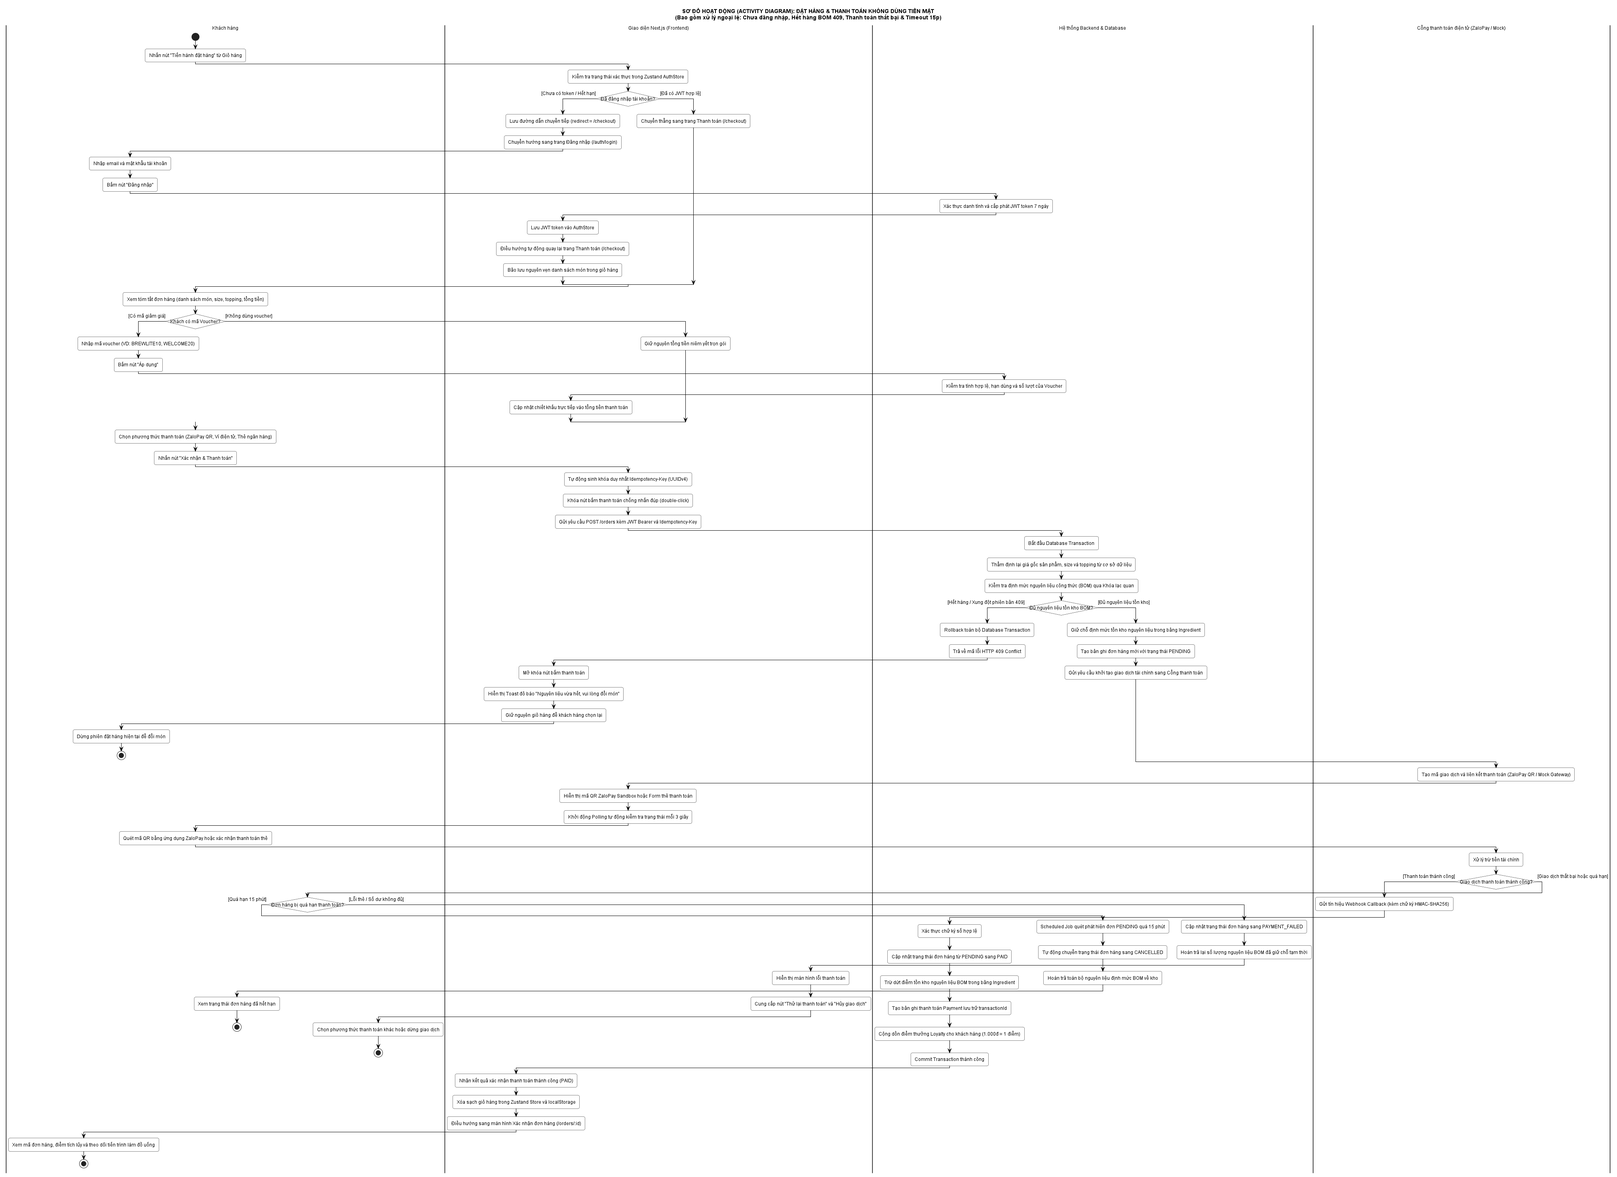
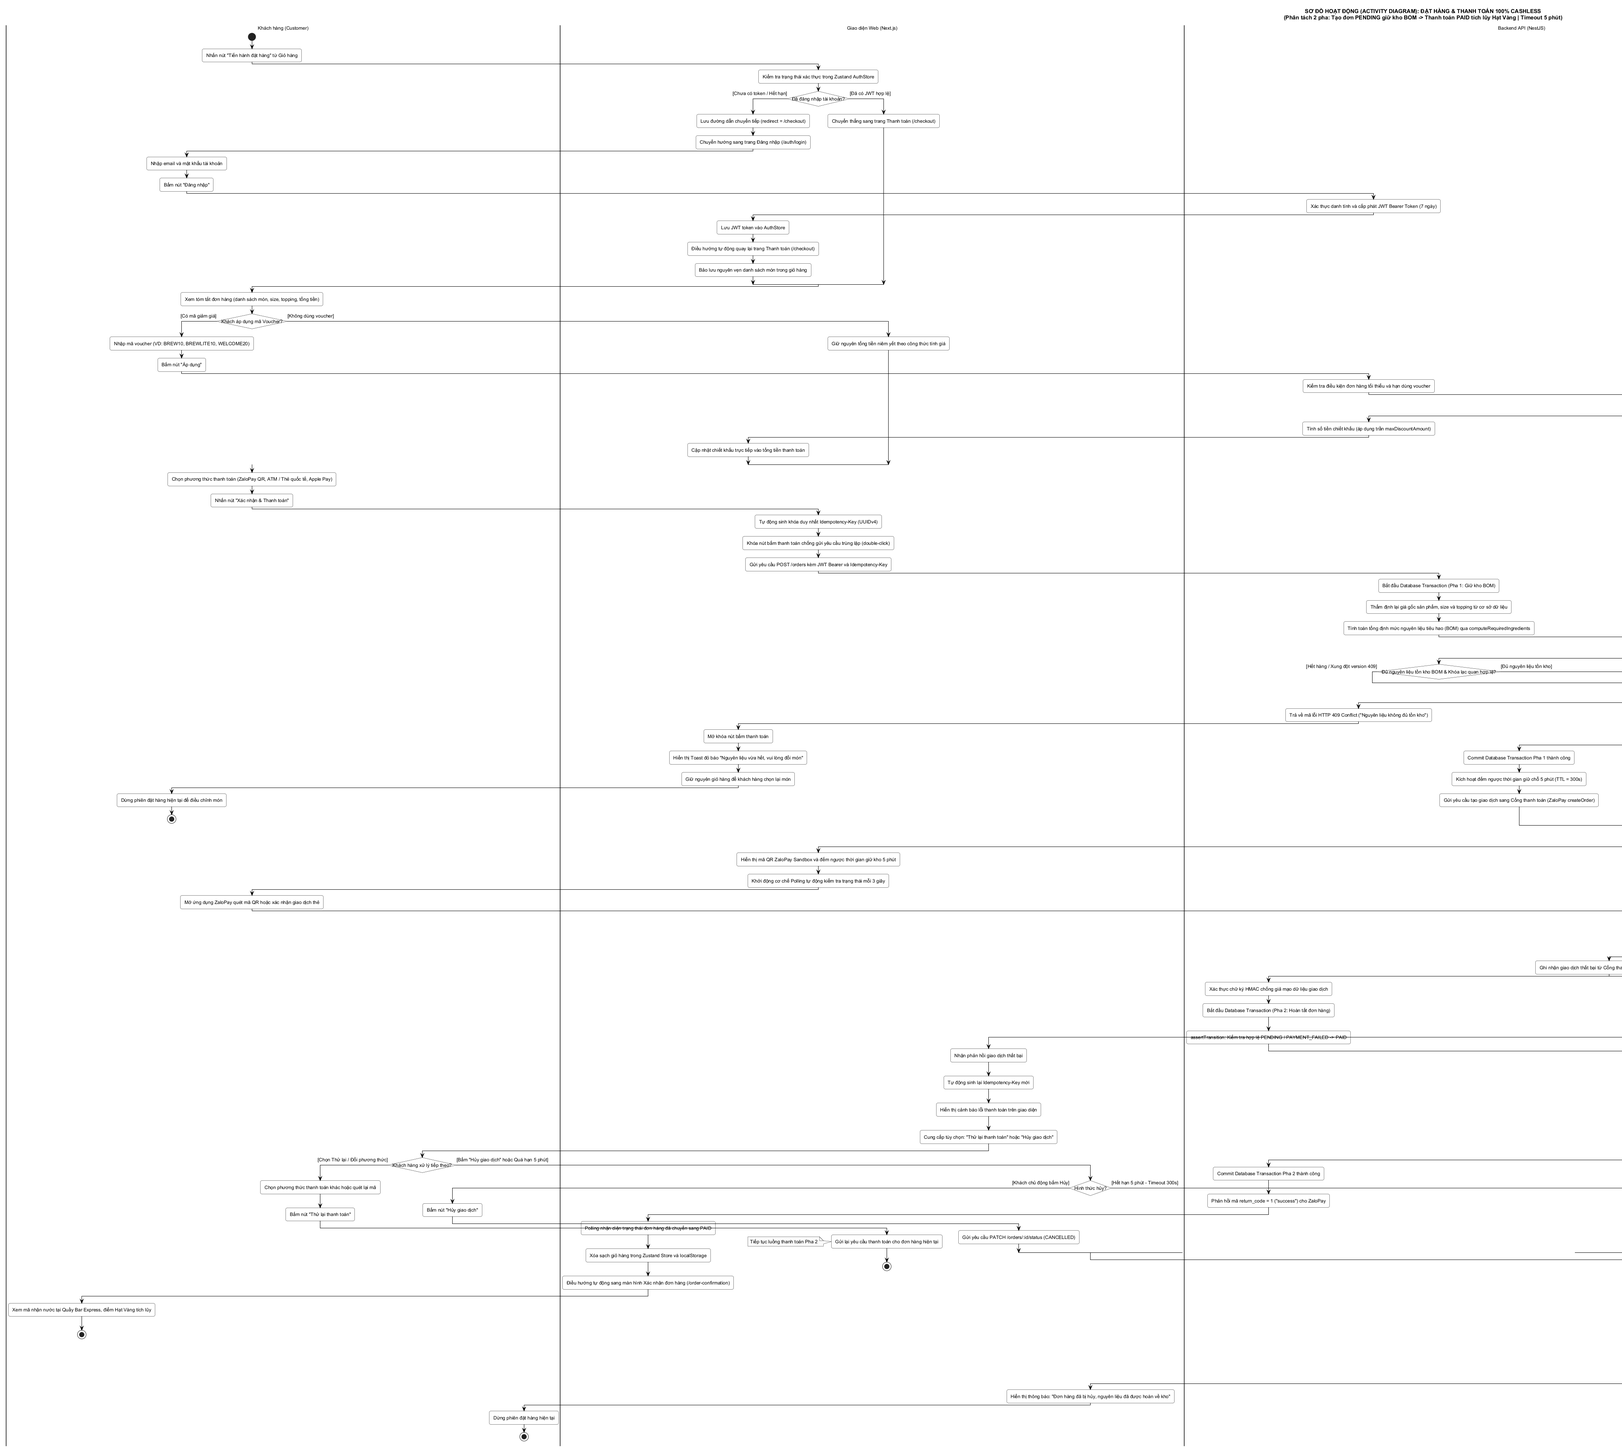
docs(task-2.1): bổ sung sơ đồ hoạt động checkout đặt hàng thanh toán và xử lý timeout 5 phút - Nguyễn Gia Thành

diff --git a/docs/diagrams/activity-diagrams.md b/docs/diagrams/activity-diagrams.md
@@ -4,22 +4,21 @@
 > **Tài liệu:** `docs/diagrams/activity-diagrams.md`  
 > **Học phần:** Công nghệ Phần mềm (Software Engineering) — Assignment 2 (Task 2.1)  
 > **Đơn vị đào tạo:** Khoa Công nghệ Thông tin, Trường Đại học Sài Gòn (SGU)  
-> **Giảng viên hướng dẫn:** ThS. Từ Lãng Phiêu  
 > **Nhóm thực hiện:** Nhóm BrewLite (6 thành viên)  
 > **Phong cách thiết kế:** Monochrome UML 2.5 (Chuẩn đen trắng tối giản, Swimlane phân làn, Decision hình thoi)  
-> **Trạng thái:** Hoàn thành nghiệm thu Task 2.1 (Approved)
+> **Trạng thái:** Chuẩn hóa toàn diện theo mã nguồn thực tế (Approved)
 
 ---
 
 ## 📌 1. TỔNG QUAN HỆ THỐNG SƠ ĐỒ HOẠT ĐỘNG (TASK 2.1)
 
-Nhằm mô hình hóa hành vi động của hệ thống theo luồng **End-to-End** từ khi khách hàng tiếp cận menu đến khi ly cà phê được trao tận tay tại quầy Bar Express, hệ thống BrewLite được phân rã thành **3 sơ đồ Activity Diagram chuyên biệt**:
+Nhằm mô hình hóa hành vi động của hệ thống theo luồng **End-to-End** từ khi khách hàng tiếp cận menu đến khi ly cà phê được trao tận tay tại quầy Bar Express, hệ thống BrewLite được phân rã thành **3 sơ đồ Activity Diagram chuyên biệt** chuẩn hóa theo mã nguồn thực tế (`backend/src/orders/orders.service.ts` & `backend/src/payments/payments.service.ts`):
 
 | STT | Tên Sơ Đồ Hoạt Động | Tệp Mã Nguồn & Kết Xuất | Số Làn (Swimlanes) | Điểm Nhấn Nghiệp Vụ & Ngoại Lệ |
 | :---: | :--- | :--- | :---: | :--- |
-| **1** | **Duyệt Menu, Tùy biến món & Giỏ hàng** | [`activity-menu-cart.puml`](activity-menu-cart.puml)<br>[`activity-menu-cart.svg`](activity-menu-cart.svg)<br>[`activity-menu-cart.png`](activity-menu-cart.png) | 3 Làn:<br>• Khách hàng<br>• Next.js Frontend<br>• NestJS Backend | • Dynamic Pricing tự động.<br>• Phân biệt món trùng lặp cấu hình để tăng số lượng.<br>• **Xử lý món hết hàng (Sold out)**. |
-| **2** | **Đặt hàng & Thanh toán không tiền mặt**<br>*(Trọng tâm đề bài)* | [`activity-checkout.puml`](activity-checkout.puml)<br>[`activity-checkout.svg`](activity-checkout.svg)<br>[`activity-checkout.png`](activity-checkout.png) | 4 Làn:<br>• Khách hàng<br>• Next.js Frontend<br>• NestJS & PostgreSQL<br>• Cổng ZaloPay / Mock | • **Ngoại lệ 1: Chưa đăng nhập (Redirect Login & bảo lưu giỏ)**.<br>• **Ngoại lệ 2: Hết hàng BOM (Optimistic Lock 409)**.<br>• **Ngoại lệ 3: Thanh toán thất bại (Retry / Hủy)**.<br>• **Ngoại lệ 4: Timeout đơn PENDING 15 phút**. |
-| **3** | **Quầy pha chế KDS & Nhận nước tại quầy** | [`activity-kds.puml`](activity-kds.puml)<br>[`activity-kds.svg`](activity-kds.svg)<br>[`activity-kds.png`](activity-kds.png) | 4 Làn:<br>• Khách hàng<br>• Next.js KDS Frontend<br>• NestJS & PostgreSQL<br>• Nhân viên Barista | • Quy trình Barista KDS 1 chạm.<br>• **Ngoại lệ: Hủy đơn trong 5 phút Grace Period**.<br>• Máy trạng thái `PAID` $\rightarrow$ `PREPARING` $\rightarrow$ `READY` $\rightarrow$ `COMPLETED`. |
+| **1** | **Duyệt Menu, Tùy biến món & Giỏ hàng** | [`activity-menu-cart.puml`](activity-menu-cart.puml)<br>[`activity-menu-cart.svg`](activity-menu-cart.svg)<br>[`activity-menu-cart.png`](activity-menu-cart.png) | 4 Làn:<br>• Khách hàng (Customer)<br>• Giao diện Web (Next.js)<br>• Backend API (NestJS)<br>• Cơ sở dữ liệu (PostgreSQL) | • Dynamic Pricing tự động theo thời gian thực.<br>• Composite key `(productId-size-ice-sugar-toppings)` tránh trùng lặp.<br>• **Xử lý món hết hàng (Sold out)**. |
+| **2** | **Đặt hàng & Thanh toán không tiền mặt**<br>*(Trọng tâm đề bài)* | [`activity-checkout.puml`](activity-checkout.puml)<br>[`activity-checkout.svg`](activity-checkout.svg)<br>[`activity-checkout.png`](activity-checkout.png) | 5 Làn chuẩn:<br>• Khách hàng (Customer)<br>• Giao diện Web (Next.js)<br>• Backend API (NestJS)<br>• Cổng thanh toán (ZaloPay)<br>• Cơ sở dữ liệu (PostgreSQL) | • **Phân tách 2 pha:** Tạo đơn PENDING (giữ kho BOM) $\rightarrow$ Thanh toán PAID (cộng Hạt Vàng).<br>• **Ngoại lệ 1: Chưa đăng nhập** (Redirect Login & bảo lưu giỏ hàng).<br>• **Ngoại lệ 2: Hết hàng BOM 409** (Optimistic Lock rollback).<br>• **Ngoại lệ 3: Thanh toán thất bại `PAYMENT_FAILED`** (Không lập tức hoàn kho, cho phép đổi phương thức/thử lại; chỉ hoàn kho khi khách hủy hoặc quá 5 phút).<br>• **Ngoại lệ 4: Timeout đơn PENDING 5 phút (300s)** (Scheduled job quét mỗi 15s tự động hủy và hoàn trả kho 100%). |
+| **3** | **Quầy pha chế KDS & Nhận nước tại quầy** | [`activity-kds.puml`](activity-kds.puml)<br>[`activity-kds.svg`](activity-kds.svg)<br>[`activity-kds.png`](activity-kds.png) | 5 Làn:<br>• Khách hàng (Customer)<br>• Giao diện Web & KDS (Next.js)<br>• Backend API (NestJS)<br>• Cơ sở dữ liệu (PostgreSQL)<br>• Nhân viên Barista (Quầy pha chế) | • Quick Recipe Popover hiển thị định lượng BOM.<br>• **Ngoại lệ: Hủy đơn trong thời gian ân hạn 5 phút (Grace Period)**.<br>• Máy trạng thái State Machine Guard: `PAID` $\rightarrow$ `PREPARING` $\rightarrow$ `READY` $\rightarrow$ `COMPLETED`. |
 
 ---
 
@@ -30,19 +29,19 @@ Nhằm mô hình hóa hành vi động của hệ thống theo luồng **End-to-
 ![Activity Diagram Menu & Cart](activity-menu-cart.svg)
 
 ### 2.2. Thuyết minh luồng hoạt động:
-1. **Khách hàng** truy cập `/menu` $\rightarrow$ **Next.js** hiển thị Skeleton loader và gọi `GET /products` sang **NestJS Backend**.
-2. **Backend** truy vấn PostgreSQL và trả về danh sách sản phẩm kích hoạt.
+1. **Khách hàng** truy cập `/menu` $\rightarrow$ **Giao diện Web (Next.js)** hiển thị Skeleton loader và gọi `GET /products` sang **Backend API (NestJS)**.
+2. **Backend API** truy vấn bảng `Product`, `Recipe`, `Ingredient` trong **PostgreSQL** và trả về danh sách sản phẩm kích hoạt kèm cấu hình định giá.
 3. Khi khách bấm chọn 1 món:
-   - **Hình thoi điều kiện `Còn hàng?`:**
-     + *Nhánh Hết hàng:* Frontend hiển thị badge "Hết hàng" và khóa nút chọn món $\rightarrow$ Khách chọn món khác.
-     + *Nhánh Còn hàng:* Mở modal tùy biến `ProductDetailModal`.
-4. Khách hàng chọn Size (S/M/L), Topping và Đá/Đường $\rightarrow$ Frontend tính giá động (Dynamic Pricing) theo thời gian thực:
+   - **Hình thoi điều kiện `Sản phẩm còn hàng trong kho?`:**
+     + *Nhánh Hết hàng / Sold Out:* Frontend hiển thị badge "Hết hàng", làm mờ card và khóa nút chọn món $\rightarrow$ Khách chọn món khác.
+     + *Nhánh Còn hàng sẵn sàng:* Mở modal tùy biến `ProductDetailModal`.
+4. Khách hàng chọn Size (S/M/L), Topping (Kem muối biển, Thạch cà phê...) và Mức đá (0-100%), Mức đường (0-100%) $\rightarrow$ Frontend tính giá động (Dynamic Pricing) theo thời gian thực:
    $$\text{Giá} = (\text{basePrice} + \text{sizeUpcharge} + \sum \text{toppingPrice}) \times \text{quantity}$$
 5. Khi khách bấm "Thêm vào giỏ hàng":
-   - **Hình thoi điều kiện `Đã có trong giỏ?`:**
-     + *Nhánh Đã có:* Tăng số lượng (`quantity + 1`).
-     + *Nhánh Chưa có:* Thêm dòng mới vào Zustand Store.
-6. Frontend lưu `localStorage` và cập nhật Cart Badge trên Header.
+   - **Hình thoi điều kiện `Món đã có sẵn trong giỏ hàng?` (kiểm tra composite key):**
+     + *Nhánh Đã có cùng tùy chọn:* Cộng dồn số lượng (`quantity = quantity + 1`).
+     + *Nhánh Chưa có:* Tạo dòng mục mới trong Zustand Cart Store.
+6. Frontend lưu `localStorage`, cập nhật Cart Badge trên Header và hiển thị Toast xanh thông báo thành công.
 
 ---
 
@@ -52,23 +51,55 @@ Nhằm mô hình hóa hành vi động của hệ thống theo luồng **End-to-
 
 ![Activity Diagram Checkout & Payment](activity-checkout.svg)
 
-### 3.2. Thuyết minh luồng hoạt động & Xử lý 3 trường hợp ngoại lệ:
-1. **Khách hàng** nhấn "Tiến hành đặt hàng" $\rightarrow$ **Next.js** kiểm tra token trong AuthStore:
-   - **Hình thoi điều kiện `Đã đăng nhập?` (Ngoại lệ 1):**
-     + *Nhánh Chưa đăng nhập:* Lưu redirect URL `/checkout`, chuyển sang `/auth/login`. Khách đăng nhập xong, Backend cấp JWT 7 ngày, Frontend điều hướng trở lại `/checkout` với giỏ hàng nguyên vẹn.
-     + *Nhánh Đã đăng nhập:* Chuyển thẳng sang `/checkout`.
-2. Khách áp dụng mã Voucher (nếu có) $\rightarrow$ Backend thẩm định và chiết khấu tổng tiền.
-3. Khách chọn phương thức thanh toán và nhấn "Xác nhận & Thanh toán" $\rightarrow$ Frontend sinh `Idempotency-Key` (UUIDv4) chống gửi lặp và gửi `POST /orders`.
-4. **Backend mở Database Transaction:**
-   - **Hình thoi điều kiện `Đủ tồn kho BOM?` (Ngoại lệ 2 — Optimistic Locking):**
-     + *Nhánh Hết hàng / Xung đột phiên bản 409:* Rollback transaction, trả lỗi `409 Conflict`. Frontend hiển thị Toast đỏ báo nguyên liệu vừa hết, giữ nguyên giỏ hàng để khách đổi món.
-     + *Nhánh Đủ nguyên liệu:* Giữ chỗ tồn kho nguyên liệu, tạo đơn `PENDING` và gọi Cổng thanh toán ZaloPay/Mock.
-5. **Cổng thanh toán** tạo mã QR/Form thanh toán $\rightarrow$ Frontend hiển thị và Polling mỗi 3 giây.
-6. Khi khách thanh toán:
-   - **Hình thoi điều kiện `Kết quả thanh toán?` (Ngoại lệ 3 & Timeout 15p):**
-     + *Nhánh Thất bại:* Cập nhật đơn `PAYMENT_FAILED`, hoàn trả tồn kho tạm giữ. Frontend cho phép khách bấm **"Thử lại" (Retry)** hoặc **"Hủy giao dịch"**.
-     + *Nhánh Timeout 15 phút:* Scheduled Job tự động quét và chuyển đơn sang `CANCELLED`, hoàn tồn kho BOM.
-     + *Nhánh Thành công:* Webhook gửi chữ ký HMAC-SHA256, Backend xác thực $\rightarrow$ Cập nhật đơn `PAID`, trừ kho BOM vĩnh viễn, cộng điểm Loyalty (1.000đ = 1đ), dọn sạch giỏ hàng.
+### 3.2. Thuyết minh luồng hoạt động & Kiến trúc 2 Pha chuẩn hóa:
+
+Quy trình Đặt hàng và Thanh toán tuân thủ kiến trúc phân tách 2 pha giao dịch độc lập và xử lý ngoại lệ theo đúng mã nguồn `orders.service.ts` và `payments.service.ts`:
+
+#### 🔹 Pha 1: Tạo đơn PENDING & Giữ chỗ nguyên liệu BOM
+1. **Khách hàng** nhấn "Tiến hành đặt hàng" $\rightarrow$ **Giao diện Web (Next.js)** kiểm tra token trong `authStore`:
+   - **Hình thoi điều kiện `Đã đăng nhập tài khoản?` (Ngoại lệ 1):**
+     + *Chưa đăng nhập:* Lưu redirect URL `/checkout`, chuyển sang `/auth/login`. Khách đăng nhập xong, Backend cấp JWT 7 ngày, Frontend điều hướng trở lại `/checkout` với giỏ hàng bảo lưu nguyên vẹn.
+     + *Đã đăng nhập:* Chuyển thẳng sang trang `/checkout`.
+2. Khách áp dụng mã Voucher (nếu có): Backend và PostgreSQL kiểm tra điều kiện đơn hàng tối thiểu, trần chiết khấu và tính toán số tiền giảm.
+3. Khách chọn phương thức thanh toán và nhấn "Xác nhận & Thanh toán":
+   - Frontend sinh `Idempotency-Key` (UUIDv4) chống gửi trùng lặp (double-click).
+   - Gửi yêu cầu `POST /orders` kèm JWT Bearer.
+4. **Backend API mở Database Transaction Pha 1 trong PostgreSQL:**
+   - Thẩm định lại giá sản phẩm, size, topping từ DB.
+   - Tính toán tổng định mức nguyên vật liệu tiêu hao BOM qua `computeRequiredIngredients`.
+   - **Hình thoi điều kiện `Đủ nguyên liệu tồn kho BOM & Khóa lạc quan hợp lệ?` (Ngoại lệ 2):**
+     + *Hết hàng / Xung đột version (HTTP 409 Conflict):* Rollback Transaction Pha 1. Frontend mở khóa nút bấm, hiển thị Toast đỏ thông báo nguyên liệu vừa hết, giữ nguyên giỏ hàng để khách đổi món.
+     + *Đủ nguyên liệu tồn kho:* Thực thi Optimistic Locking trừ tồn kho tạm thời (giữ chỗ) trong bảng `Ingredient` (`version = version + 1`), tạo bản ghi `Order` với trạng thái ban đầu là `PENDING`. Commit Database Transaction Pha 1.
+     - Kích hoạt đếm ngược thời gian giữ chỗ **5 phút (300 giây)**.
+     - Gửi yêu cầu khởi tạo giao dịch sang **Cổng thanh toán (ZaloPay createOrder)**.
+
+#### 🔹 Pha 2: Xử lý thanh toán & Chuyển sang PAID (Cộng Hạt Vàng)
+5. **Cổng thanh toán (ZaloPay)** sinh mã giao dịch (`appTransId`, `zpTransToken`, QR Code).
+6. **Frontend** hiển thị mã QR ZaloPay Sandbox, banner đếm ngược 5 phút và khởi động Polling mỗi 3 giây (`GET /payments/zalopay/status`).
+7. Khách hàng quét mã QR ZaloPay hoặc xác nhận thẻ $\rightarrow$ ZaloPay xử lý trừ tiền tài chính.
+8. **Hình thoi điều kiện `Kết quả xử lý giao dịch tại Cổng thanh toán?`:**
+   - **Nhánh Thanh toán thành công:**
+     + Cổng thanh toán gửi Webhook IPN Callback kèm chữ ký số HMAC-SHA256 (Mac Key2).
+     + Backend API xác thực chữ ký HMAC chống giả mạo dữ liệu.
+     + Backend API mở **Database Transaction Pha 2**:
+       - `assertTransition`: Kiểm tra chuyển trạng thái hợp lệ `PENDING` / `PAYMENT_FAILED` $\rightarrow$ `PAID`.
+       - Cập nhật Order sang `PAID` (tăng version = version + 1).
+       - Xác nhận dứt điểm trừ kho nguyên liệu BOM trong bảng `Ingredient`.
+       - Tạo bản ghi `Payment` với trạng thái `SUCCESS` và lưu `idempotencyKey`.
+       - Cộng dồn điểm thưởng **Hạt Vàng** vào tài khoản User: tỷ lệ 1.000đ = 1 Hạt Vàng (`points = Math.floor(amount / 1000)`).
+       - Commit Transaction Pha 2, phản hồi `return_code = 1` cho ZaloPay.
+     + Frontend Polling nhận diện trạng thái `PAID` $\rightarrow$ Xóa sạch giỏ hàng trong Zustand Store & `localStorage` $\rightarrow$ Chuyển sang trang `/order-confirmation?orderId=...`.
+     + Khách hàng nhận mã đơn, xem điểm Hạt Vàng tích lũy và theo dõi pha chế. (Kết thúc).
+   - **Nhánh Thanh toán thất bại (`PAYMENT_FAILED` - Ngoại lệ 3):**
+     + Cập nhật trạng thái đơn hàng sang `PAYMENT_FAILED`, tạo bản ghi Payment `FAILED`.
+     + > [!IMPORTANT]
+       > **Quy tắc Nghiệp vụ Chuẩn:** Hệ thống **KHÔNG lập tức hoàn kho** tại thời điểm giao dịch thất bại. Tồn kho BOM tiếp tục được giữ chỗ trong tổng thời gian 5 phút để tạo điều kiện thuận lợi cho khách hàng thử lại hoặc đổi phương thức thanh toán.
+     + Frontend hiển thị cảnh báo lỗi thanh toán, tự động sinh Idempotency-Key mới và hiển thị 2 tùy chọn:
+       - *Thử lại thanh toán:* Khách hàng chọn phương thức khác (thẻ ATM/quốc tế, Apple Pay, quét lại QR) và bấm "Thử lại thanh toán" $\rightarrow$ Gửi lại yêu cầu thanh toán cho đơn hàng hiện tại (quay lại luồng thanh toán Pha 2).
+       - *Hủy giao dịch / Quá hạn 5 phút (Timeout 300s):*
+         - Nếu khách bấm "Hủy giao dịch": Frontend gửi `PATCH /orders/:id/status` (`CANCELLED`).
+         - Nếu quá hạn 5 phút: Scheduled Job Backend (chạy ngầm mỗi 15 giây qua `cancelExpiredPendingOrders`) hoặc timer Frontend phát hiện đơn quá hạn $\rightarrow$ Tự động mở DB Transaction chuyển đơn sang `CANCELLED` và **hoàn trả 100% định mức nguyên liệu BOM** vào kho (`stock += requiredAmount`, `version += 1`).
+         - Frontend thông báo đơn hàng đã bị hủy và nguyên liệu đã được hoàn về kho. Khách hàng kết thúc phiên.
 
 ---
 
@@ -79,15 +110,16 @@ Nhằm mô hình hóa hành vi động của hệ thống theo luồng **End-to-
 ![Activity Diagram KDS & Fulfillment](activity-kds.svg)
 
 ### 4.2. Thuyết minh luồng hoạt động:
-1. Đơn hàng chuyển sang `PAID` $\rightarrow$ Kích hoạt thời gian ân hạn 5 phút (Grace Period Countdown).
-2. Màn hình KDS (`/staff/orders`) tự động nạp đơn hàng mới với chi tiết size/topping/đá/đường.
+1. Đơn hàng chuyển sang `PAID` $\rightarrow$ Kích hoạt thời gian ân hạn hủy đơn 5 phút (Grace Period Countdown).
+2. Màn hình KDS (`/staff/orders`) tự động nạp thẻ đơn hàng mới với chi tiết size, topping, định mức nguyên liệu (Quick Recipe Popover).
 3. **Hình thoi điều kiện `Khách có yêu cầu hủy đơn hàng?` (Ngoại lệ Grace Period):**
-   - *Nếu khách hủy trong $\le 5$ phút & chưa pha chế:* Backend kiểm tra hợp lệ $\rightarrow$ Chuyển đơn `CANCELLED`, hoàn nguyên liệu BOM về kho và ghi nhận hoàn tiền $\rightarrow$ Kết thúc (`stop`).
+   - *Nếu khách hủy trong $\le 5$ phút & chưa chuyển sang pha chế:* Backend kiểm tra hợp lệ $\rightarrow$ DB Transaction chuyển đơn sang `CANCELLED`, hoàn 100% nguyên liệu BOM về kho, thu hồi điểm Hạt Vàng đã cộng, hoàn lại voucher (nếu có) $\rightarrow$ KDS gỡ thẻ đơn $\rightarrow$ Kết thúc (`stop`).
    - *Nếu quá hạn 5 phút hoặc đã bắt đầu làm:* Backend từ chối hủy (`HTTP 400 Bad Request`), Frontend khóa nút hủy và thông báo "Đồ uống đang được chuẩn bị".
    - *Nếu không hủy:* Khách tiếp tục chờ thông báo pha chế.
 4. **Quầy pha chế Barista:**
-   - Barista xem thông tin công thức và bấm "Bắt đầu pha chế" $\rightarrow$ Đơn chuyển sang `PREPARING`, khóa hoàn toàn quyền hủy đơn của khách.
-   - Barista pha chế cà phê rang mộc theo định mức công thức BOM, dán tem nhãn `#id`, đặt ly tại Trạm Bar Express 02 và bấm "Pha chế xong" $\rightarrow$ Đơn chuyển `READY`.
+   - Barista xem thông tin định lượng công thức BOM trên màn hình KDS và bấm "Bắt đầu pha chế" $\rightarrow$ Backend cập nhật `PREPARING`, ghi nhận `staffId`, `staffName`, khóa hoàn toàn quyền hủy của khách.
+   - Barista pha chế cà phê rang mộc theo định mức công thức BOM, in dán tem nhãn `#id`, đặt ly tại Quầy Bar Express (Trạm nhận 02) và bấm "Pha chế xong" $\rightarrow$ Đơn chuyển `READY`.
 5. **Giao nhận nước:**
-   - Màn hình khách hiển thị thông báo mời đến nhận nước tại Trạm Bar Express 02.
-   - Khách di chuyển đến quầy và đưa mã đơn đối soát $\rightarrow$ Barista đối soát và bấm "Giao hàng thành công" $\rightarrow$ Đơn chuyển `COMPLETED`. Kết thúc luồng End-to-End (`stop`).
+   - Màn hình khách hiển thị thông báo: "Đồ uống đã sẵn sàng tại Trạm Bar Express 02".
+   - Khách di chuyển đến quầy và đưa mã đơn đối soát $\rightarrow$ Barista đối soát và bấm "Giao hàng thành công" $\rightarrow$ Backend chuyển `COMPLETED`, đánh dấu trừ dứt điểm voucher.
+   - Khách hàng thưởng thức ly cà phê đặc sản BrewLite. Kết thúc luồng End-to-End (`stop`).
